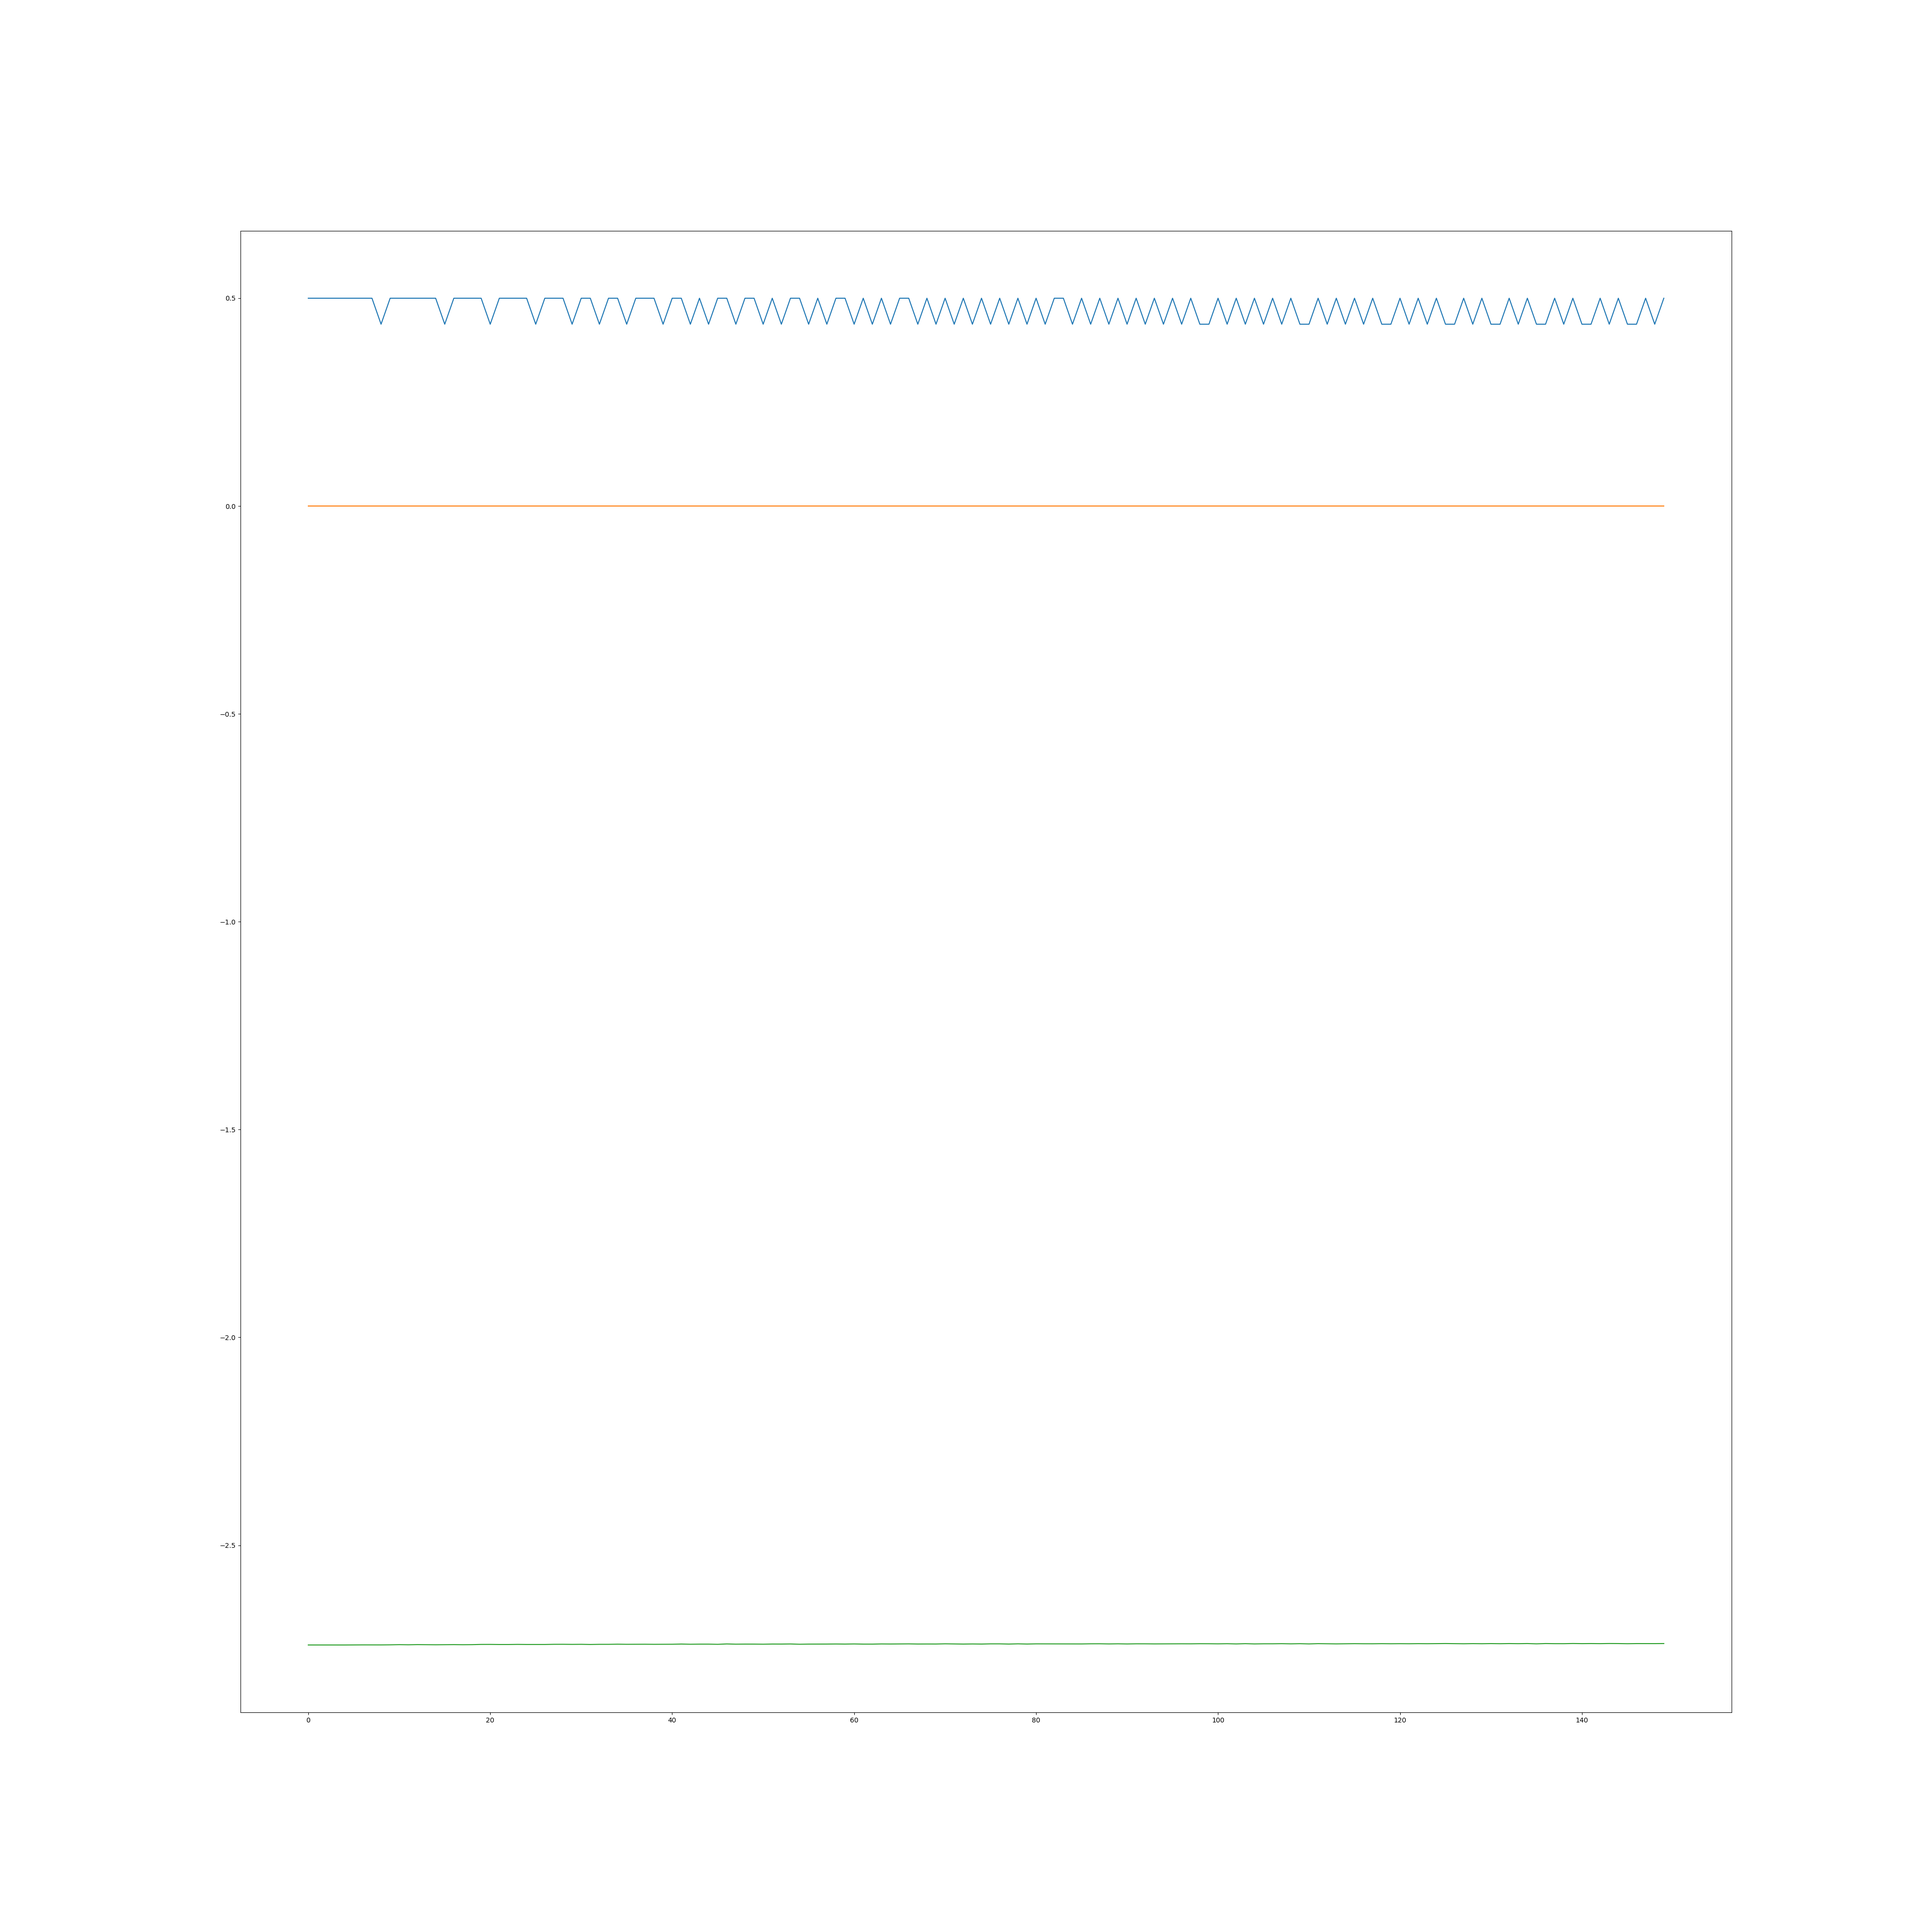
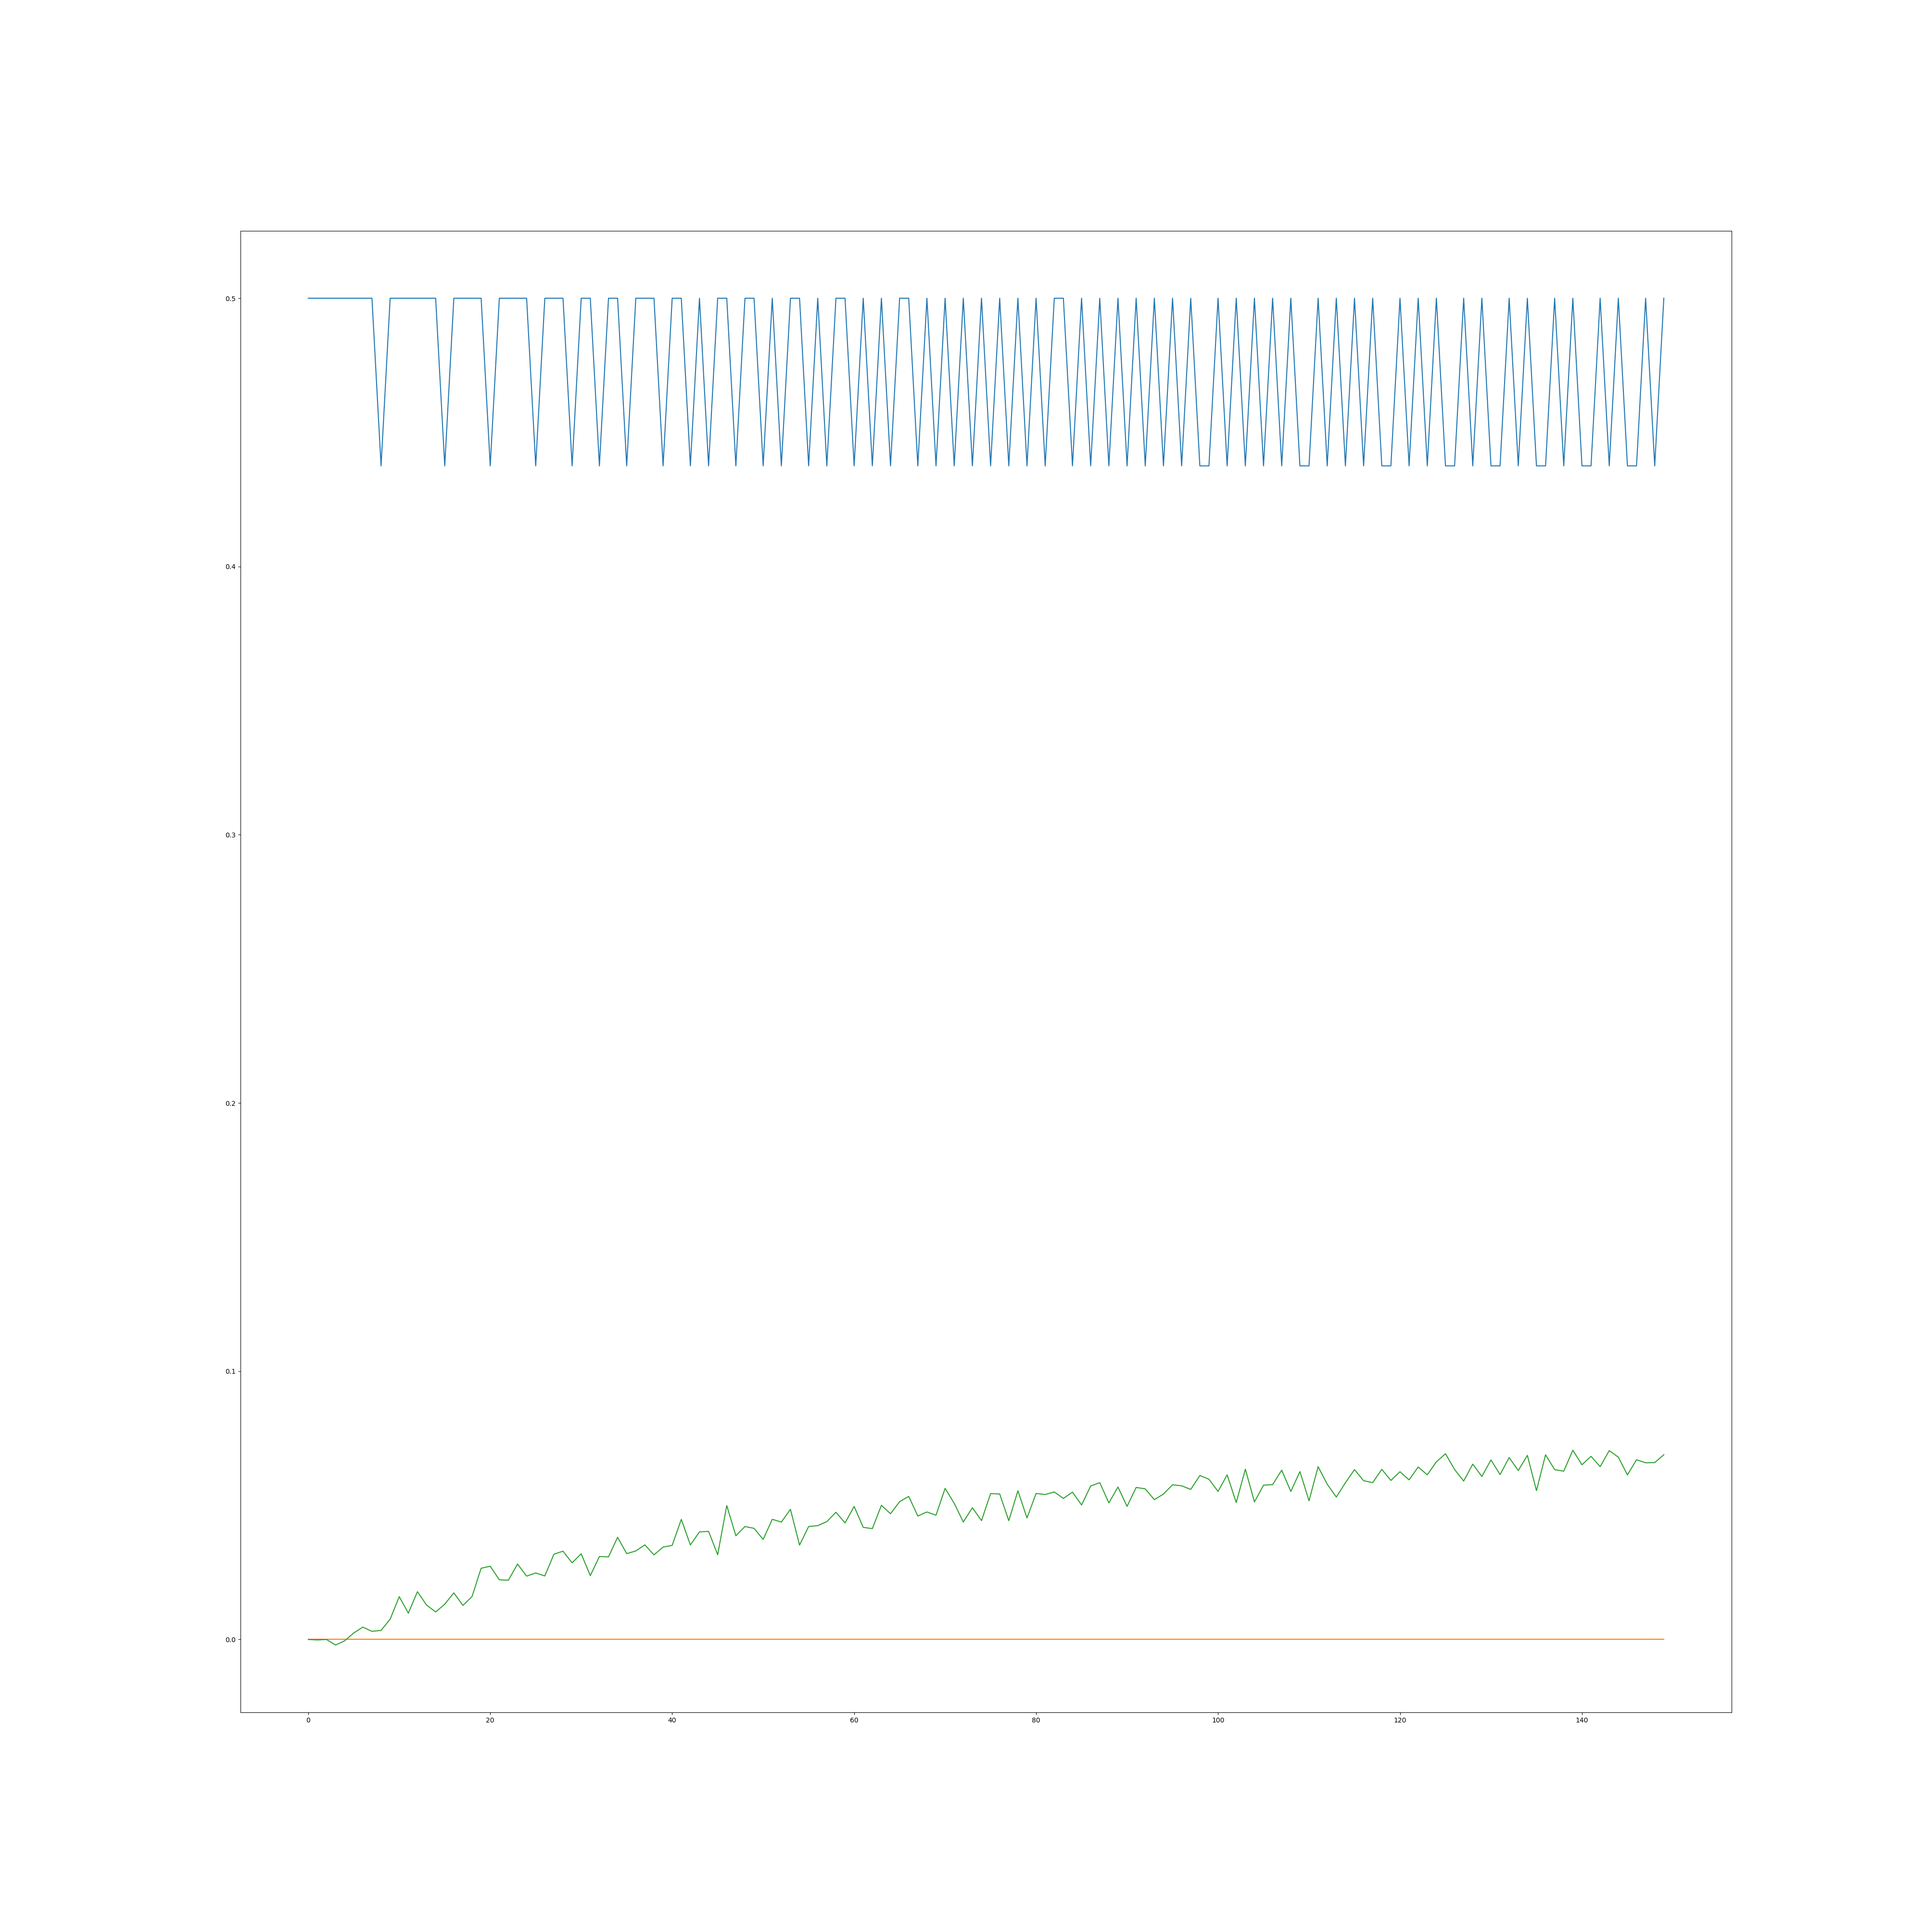
wip

Changed region(s): [[0.25, 0.1562, 0.875, 0.25], [0.75, 0.2188, 0.7812, 0.25]]

diff --git a/test.py b/test.py
@@ -76,12 +76,12 @@ def getInfo(data_dict,node1,node2):
     #print(np.shape(w[0][w_idx]))
     return s1_arr,s2_arr,spike1_arr,spike2_arr,w_arr
 
-def plot(data_dict,node1,node2,fname,weight_scale=100):
+def plot(data_dict,node1,node2,fname,weight_scale=2000):
     s1_arr,s2_arr,spike1_arr,spike2_arr,w_arr=getInfo(data_dict,node1,node2)
     fig, ax = plt.subplots(figsize=(40,40))
     ax.plot(spike1_arr)
     ax.plot(spike2_arr)
-    ax.plot(w_arr*weight_scale)
+    ax.plot((w_arr-w_arr[0])*weight_scale)
     fig.savefig(fname)
 
 max_num_plots=10
